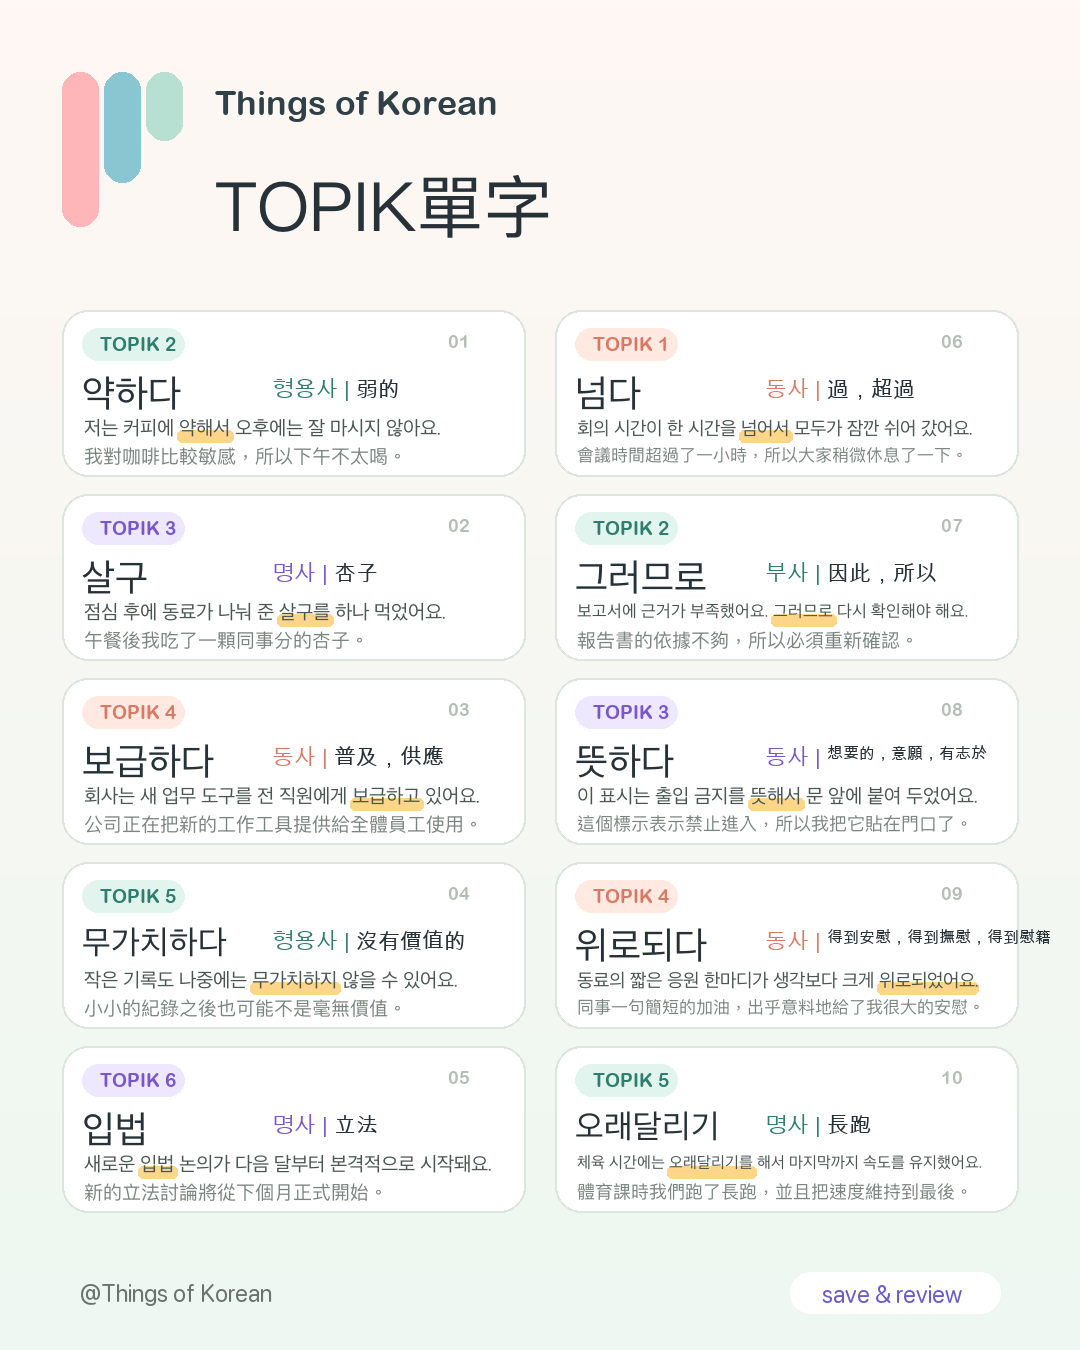
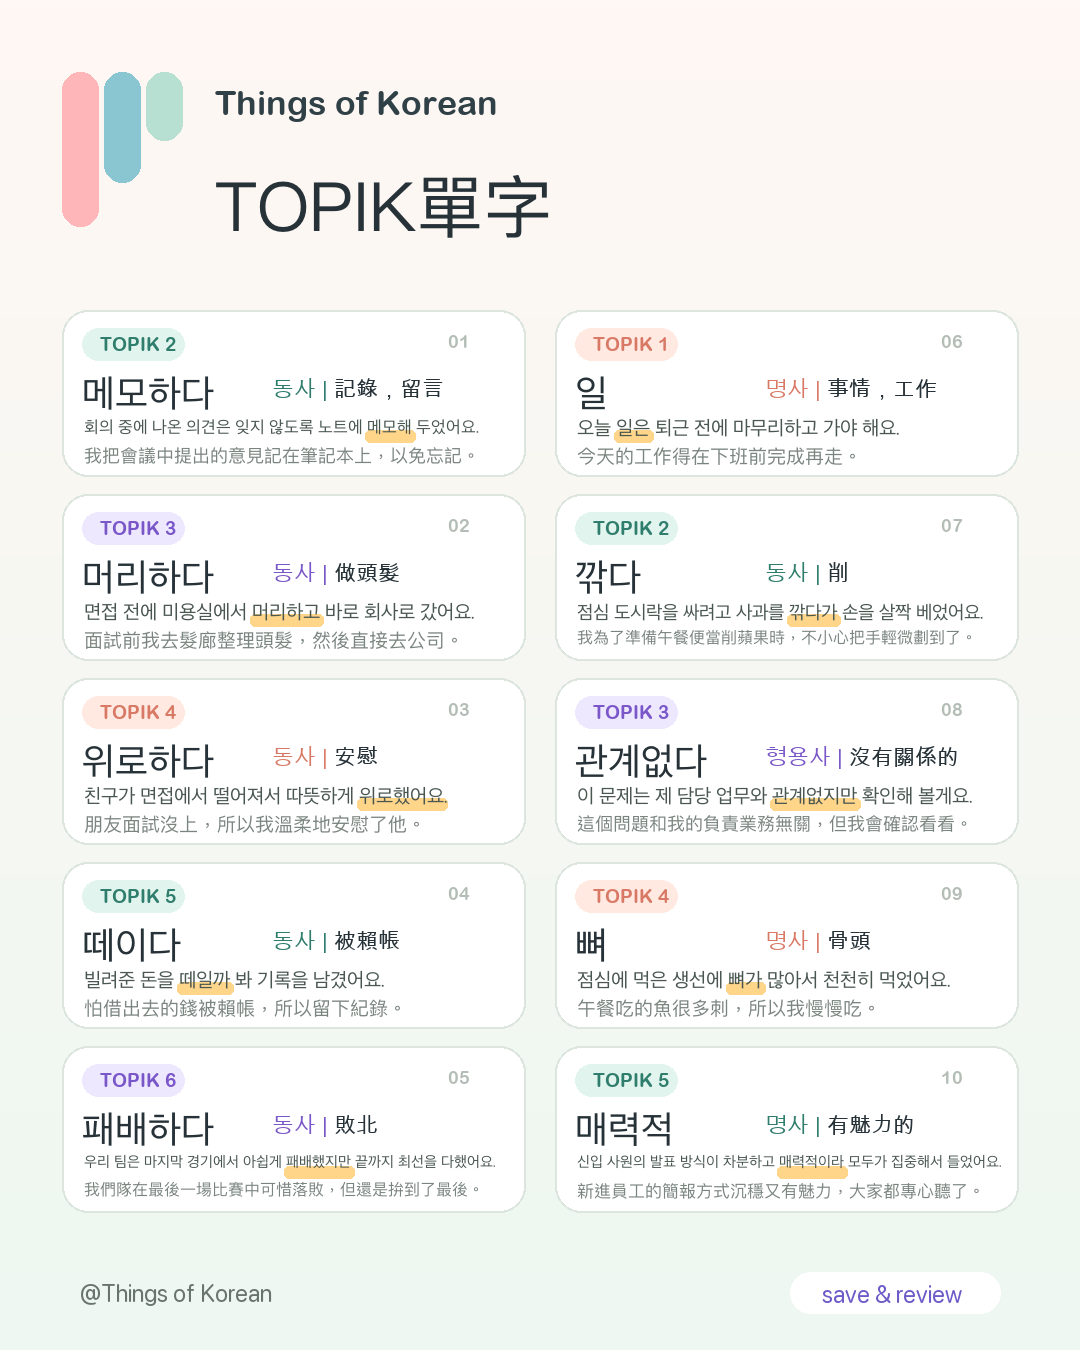
Pre-generate HANHAN daily assets

diff --git a/src/content.js b/src/content.js
@@ -412,6 +412,24 @@ const grammarBank = [
 ];
 
 const TOPIK_LEVELS = [1, 2, 3, 4, 5, 6];
+const CURATED_VOCAB_WORDS = new Set([
+  "장갑", "막다", "명단", "백팔십도", "추모하다", "운동", "한두", "결과적", "보급", "민주화되다",
+  "한계", "떼이다", "패배하다", "꼭", "메모하다", "관계하다", "돼지꿈", "매력적", "공단", "가격",
+  "번역어", "광산", "넣다", "깎다", "큰집", "맞서다", "실거래", "구도", "높다", "속옷",
+  "붕괴", "김", "약하다", "머리하다", "뼈", "독립적", "호소", "얘기하다", "여권", "살구",
+  "위로하다", "정권", "항복", "책", "공개", "보급하다", "논란", "통로", "회사", "다녀오다",
+  "검토하다", "무가치하다", "침해", "역시", "화요일", "그녀", "계시되다", "입법", "넘다", "그러므로",
+  "뜻하다", "위로되다", "오래달리기", "믿다", "외국어", "관계없다", "매번", "입문", "삼", "평일",
+  "듣기", "보급되다", "이", "다", "하다", "한", "도", "있다", "어", "일",
+  "나", "지", "주거하다", "무", "글쎄요", "확인되다", "팁", "계시하다", "처형되다", "얘기",
+  "갚다", "막", "접근법", "저리되다", "괜찮다", "셋째", "첫사랑", "실망시키다", "회원제", "저리하다",
+  "드리다", "시골", "손님", "없이", "악화", "가끔가다가", "저리다", "안녕하다", "택배", "첫차",
+  "고급화", "민주화하다", "나라님", "긍정적", "계시", "치명적", "의미하다", "낚시하다", "별생각", "돼지머리",
+  "값있다", "눌러앉다", "악화되다", "값하다", "압도되다", "하루", "글쎄", "인간적", "악화하다", "꽃답다",
+  "압도하다", "언제", "새사람", "에이", "죽어지내다", "타격하다", "여러분", "검정색", "관계있다", "위로",
+  "하늘거리다", "특유하다", "신규", "염려", "연결", "연극", "연관", "연간", "도달하다", "애초",
+  "답", "연락처", "테니스", "관련되다", "검토되다", "큰아기", "업소", "운동하다", "삼촌", "질"
+]);
 
 function dayNumber(offset = 0) {
   const overrideDate = globalThis.process?.env?.HANHAN_DATE || globalThis.HANHAN_DATE;
@@ -685,7 +703,8 @@ export function koreanVocabRows() {
     "값있다": "失敗的經驗後來也成了寶貴的學習。",
     "눌러앉다": "我只是去朋友家一下，結果一直待到晚上。"
   };
-  return pickByDateAcrossLevels(topikVocab, 10, "l").map((item) => ({
+  const curatedVocab = topikVocab.filter((item) => CURATED_VOCAB_WORDS.has(item.w));
+  return pickByDateAcrossLevels(curatedVocab.length ? curatedVocab : topikVocab, 10, "l").map((item) => ({
     word: item.w,
     level: item.l,
     pos: item.p,

diff --git a/scripts/render-ig-images.py b/scripts/render-ig-images.py
@@ -381,6 +381,31 @@ VOCAB_OVERRIDES = {
         "exampleZh": "新的立法討論將從下個月正式開始。",
         "highlight": "입법",
     },
+    "넘다": {
+        "exampleKo": "회의 시간이 한 시간을 넘어서 모두가 잠깐 쉬어 갔어요.",
+        "exampleZh": "會議時間超過了一小時，所以大家稍微休息了一下。",
+        "highlight": "넘어서",
+    },
+    "그러므로": {
+        "exampleKo": "보고서에 근거가 부족했어요. 그러므로 다시 확인해야 해요.",
+        "exampleZh": "報告書的依據不夠，所以必須重新確認。",
+        "highlight": "그러므로",
+    },
+    "뜻하다": {
+        "exampleKo": "이 표시는 출입 금지를 뜻해서 문 앞에 붙여 두었어요.",
+        "exampleZh": "這個標示表示禁止進入，所以我把它貼在門口了。",
+        "highlight": "뜻해서",
+    },
+    "위로되다": {
+        "exampleKo": "동료의 짧은 응원 한마디가 생각보다 크게 위로되었어요.",
+        "exampleZh": "同事一句簡短的加油，出乎意料地給了我很大的安慰。",
+        "highlight": "위로되었어요",
+    },
+    "오래달리기": {
+        "exampleKo": "체육 시간에는 오래달리기를 해서 마지막까지 속도를 유지했어요.",
+        "exampleZh": "體育課時我們跑了長跑，並且把速度維持到最後。",
+        "highlight": "오래달리기를",
+    },
     "믿다": {
         "translation": "相信",
         "exampleKo": "팀원들은 서로를 믿고 어려운 일정을 함께 버텼어요.",
